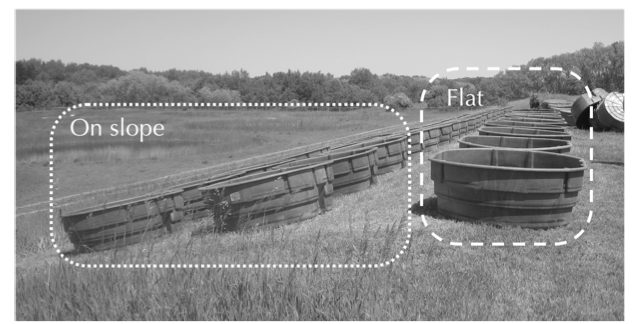
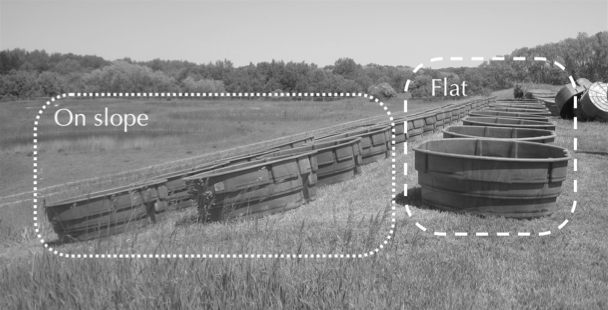
updating project main page and sidebar throughout all subpages

diff --git a/projects.html b/projects.html
@@ -21,16 +21,17 @@
         <h1>Geneviève K. Smith</a></h1>
         <p></p>
 <h3>
-<a name="Who I am" class="anchor" href="#who-I-am"><span class="octicon octicon-link"></span></a>Director of Product</h3>
-<p>Insight Data Science | NYC</p>
-        <hr/>
+<a name="Who I am" class="anchor" href="#who-I-am"><span class="octicon octicon-link"></span>
+</a><!--Director of Product--></h3>
+<p>Scientist, team builder, former VP Product at Insight Data Science (she/her)</p>
 
-    <p class="view"><a href="http://genevievekathleensmith.github.io/">home</a></p>
-    <p class="view"><a href="https://github.com/genevievekathleensmith">github</a></p>
-    <p class="view"><a href="https://twitter.com/smith_gk">twitter</a></p>
-    <p class="view"><a href="mailto:genevieve.smith@utexas.edu">email</a></p>
-    <p class="view"><a href="http://genevievekathleensmith.github.io/projects">projects</a></p>
-    <p class="view"><a href="http://genevievekathleensmith.github.io/cv">c.v.</a></p>
+<!--<p>Montréal | Sometimes Toronto | NYC</p>-->
+
+    <hr/>
+    <p class="view"><a href="http://genevievekathleensmith.github.io/">home</a> | <a href="http://genevievekathleensmith.github.io/projects">projects</a>
+    <br><a href="https://www.linkedin.com/in/smithgk/" target="_blank">linkedin</a> | <a href="https://twitter.com/smith_gk" target="_blank">twitter</a> | <a href="https://github.com/genevievekathleensmith" target="_blank">github</a></p>
+    <!--p class="view"><a href="mailto:genevieve.smith@utexas.edu">email</a></p-->
+    <!--<p class="view"><a href="http://genevievekathleensmith.github.io/cv">c.v.</a></p>-->
     
       </header>
       <section>
@@ -43,6 +44,9 @@
 <p>Most ecological theory is built on the idea that species must occupy different niches in order to coexist with one another. However, there are plenty of instances where highly similar species can be found together. Are they really coexisting? Are there subtle niche differences at work? Or is their co-occurrence merely a transient state?</p>
 <p>Using a group of freshwater crustacean species (<i>Hyalella azteca</i> amphipods), that can only be identified using genetic tools, we can start to assess just how similar co-occurring competitors can be.</p>
 <p>Using experimental mesocosms I hope to determine just how important the observed niche differences are between these species for maintaining their co-occurrence. This work was done at the W.K. Kellogg Biological Station of Michigan State University.</p>
+<img src="http://genevievekathleensmith.github.io/kbs_cattle_tanks.png" alt="Cattle tank experiment setup at Kellog Biological Station">
+<h5>Experimental cattle tank setup at Michigan State's Kellog Biological Station. For this particular experiment, some tanks sit on a shallow slope to recreate the depth variation found in ponds, while others are set up on flatter ground thereby reducing the amount of ecosystem structure species might rely on for stable coexistence.</h5>
+
 
 
 

diff --git a/flu_main.html b/flu_main.html
@@ -20,16 +20,17 @@
         <h1>Geneviève K. Smith</a></h1>
         <p></p>
 <h3>
-<a name="Who I am" class="anchor" href="#who-I-am"><span class="octicon octicon-link"></span></a>Director of Product</h3>
-<p>Insight Data Science | NYC</p>
-        <hr/>
+<a name="Who I am" class="anchor" href="#who-I-am"><span class="octicon octicon-link"></span>
+</a><!--Director of Product--></h3>
+<p>Scientist, team builder, former VP Product at Insight Data Science (she/her)</p>
 
-    <p class="view"><a href="http://genevievekathleensmith.github.io/">home</a></p>
-    <p class="view"><a href="https://github.com/genevievekathleensmith">github</a></p>
-    <p class="view"><a href="https://twitter.com/smith_gk">twitter</a></p>
-    <p class="view"><a href="mailto:genevieve.smith@utexas.edu">email</a></p>
-    <p class="view"><a href="http://genevievekathleensmith.github.io/projects">projects</a></p>
-    <p class="view"><a href="http://genevievekathleensmith.github.io/cv">c.v.</a></p>
+<!--<p>Montréal | Sometimes Toronto | NYC</p>-->
+
+    <hr/>
+    <p class="view"><a href="http://genevievekathleensmith.github.io/">home</a> | <a href="http://genevievekathleensmith.github.io/projects">projects</a>
+    <br><a href="https://www.linkedin.com/in/smithgk/" target="_blank">linkedin</a> | <a href="https://twitter.com/smith_gk" target="_blank">twitter</a> | <a href="https://github.com/genevievekathleensmith" target="_blank">github</a></p>
+    <!--p class="view"><a href="mailto:genevieve.smith@utexas.edu">email</a></p-->
+    <!--<p class="view"><a href="http://genevievekathleensmith.github.io/cv">c.v.</a></p>-->
     
       </header>
       <section>

diff --git a/morphometrics.html b/morphometrics.html
@@ -20,16 +20,17 @@
         <h1>Geneviève K. Smith</a></h1>
         <p></p>
 <h3>
-<a name="Who I am" class="anchor" href="#who-I-am"><span class="octicon octicon-link"></span></a>Director of Product</h3>
-<p>Insight Data Science | NYC</p>
-        <hr/>
+<a name="Who I am" class="anchor" href="#who-I-am"><span class="octicon octicon-link"></span>
+</a><!--Director of Product--></h3>
+<p>Scientist, team builder, former VP Product at Insight Data Science (she/her)</p>
 
-    <p class="view"><a href="http://genevievekathleensmith.github.io/">home</a></p>
-    <p class="view"><a href="https://github.com/genevievekathleensmith">github</a></p>
-    <p class="view"><a href="https://twitter.com/smith_gk">twitter</a></p>
-    <p class="view"><a href="mailto:genevieve.smith@utexas.edu">email</a></p>
-    <p class="view"><a href="http://genevievekathleensmith.github.io/projects">projects</a></p>
-    <p class="view"><a href="http://genevievekathleensmith.github.io/cv">c.v.</a></p>
+<!--<p>Montréal | Sometimes Toronto | NYC</p>-->
+
+    <hr/>
+    <p class="view"><a href="http://genevievekathleensmith.github.io/">home</a> | <a href="http://genevievekathleensmith.github.io/projects">projects</a>
+    <br><a href="https://www.linkedin.com/in/smithgk/" target="_blank">linkedin</a> | <a href="https://twitter.com/smith_gk" target="_blank">twitter</a> | <a href="https://github.com/genevievekathleensmith" target="_blank">github</a></p>
+    <!--p class="view"><a href="mailto:genevieve.smith@utexas.edu">email</a></p-->
+    <!--<p class="view"><a href="http://genevievekathleensmith.github.io/cv">c.v.</a></p>-->
     
       </header>
       <section>

diff --git a/shakespeare.html b/shakespeare.html
@@ -20,16 +20,17 @@
         <h1>Geneviève K. Smith</a></h1>
         <p></p>
 <h3>
-<a name="Who I am" class="anchor" href="#who-I-am"><span class="octicon octicon-link"></span></a>Director of Product</h3>
-<p>Insight Data Science | NYC</p>
-        <hr/>
+<a name="Who I am" class="anchor" href="#who-I-am"><span class="octicon octicon-link"></span>
+</a><!--Director of Product--></h3>
+<p>Scientist, team builder, former VP Product at Insight Data Science (she/her)</p>
 
-    <p class="view"><a href="http://genevievekathleensmith.github.io/">home</a></p>
-    <p class="view"><a href="https://github.com/genevievekathleensmith">github</a></p>
-    <p class="view"><a href="https://twitter.com/smith_gk">twitter</a></p>
-    <p class="view"><a href="mailto:genevieve.smith@utexas.edu">email</a></p>
-    <p class="view"><a href="http://genevievekathleensmith.github.io/projects">projects</a></p>
-    <p class="view"><a href="http://genevievekathleensmith.github.io/cv">c.v.</a></p>
+<!--<p>Montréal | Sometimes Toronto | NYC</p>-->
+
+    <hr/>
+    <p class="view"><a href="http://genevievekathleensmith.github.io/">home</a> | <a href="http://genevievekathleensmith.github.io/projects">projects</a>
+    <br><a href="https://www.linkedin.com/in/smithgk/" target="_blank">linkedin</a> | <a href="https://twitter.com/smith_gk" target="_blank">twitter</a> | <a href="https://github.com/genevievekathleensmith" target="_blank">github</a></p>
+    <!--p class="view"><a href="mailto:genevieve.smith@utexas.edu">email</a></p-->
+    <!--<p class="view"><a href="http://genevievekathleensmith.github.io/cv">c.v.</a></p>-->
     
       </header>
       <section>

diff --git a/resilience.html b/resilience.html
@@ -27,8 +27,8 @@
 <!--<p>Montréal | Sometimes Toronto | NYC</p>-->
 
     <hr/>
-    <p class="view"><a href="http://genevievekathleensmith.github.io/">home</a> | <a href="http://genevievekathleensmith.github.io/projects">projects</a></p>
-    <p class="view"><a href="https://www.linkedin.com/in/smithgk/" target="_blank">linkedin</a> | <a href="https://twitter.com/smith_gk" target="_blank">twitter</a> | <a href="https://github.com/genevievekathleensmith" target="_blank">github</a></p>
+    <p class="view"><a href="http://genevievekathleensmith.github.io/">home</a> | <a href="http://genevievekathleensmith.github.io/projects">projects</a>
+    <br><a href="https://www.linkedin.com/in/smithgk/" target="_blank">linkedin</a> | <a href="https://twitter.com/smith_gk" target="_blank">twitter</a> | <a href="https://github.com/genevievekathleensmith" target="_blank">github</a></p>
     <!--p class="view"><a href="mailto:genevieve.smith@utexas.edu">email</a></p-->
     <!--<p class="view"><a href="http://genevievekathleensmith.github.io/cv">c.v.</a></p>-->
     

diff --git a/index.html b/index.html
@@ -34,8 +34,8 @@
 <!--<p>Montréal | Sometimes Toronto | NYC</p>-->
 
     <hr/>
-    <p class="view"><a href="http://genevievekathleensmith.github.io/">home</a> | <a href="http://genevievekathleensmith.github.io/projects">projects</a></p>
-    <p class="view"><a href="https://www.linkedin.com/in/smithgk/" target="_blank">linkedin</a> | <a href="https://twitter.com/smith_gk" target="_blank">twitter</a> | <a href="https://github.com/genevievekathleensmith" target="_blank">github</a></p>
+    <p class="view"><a href="http://genevievekathleensmith.github.io/">home</a> | <a href="http://genevievekathleensmith.github.io/projects">projects</a>
+    <br><a href="https://www.linkedin.com/in/smithgk/" target="_blank">linkedin</a> | <a href="https://twitter.com/smith_gk" target="_blank">twitter</a> | <a href="https://github.com/genevievekathleensmith" target="_blank">github</a></p>
     <!--p class="view"><a href="mailto:genevieve.smith@utexas.edu">email</a></p-->
 		<!--<p class="view"><a href="http://genevievekathleensmith.github.io/cv">c.v.</a></p>-->
 		
